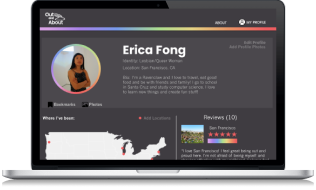
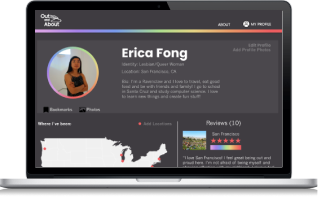
New index page

diff --git a/website.css b/website.css
@@ -6,7 +6,7 @@
     background: rgba(246, 242, 242, 0.58);
     position: absolute;
     width: 185px;
-    height: 1500px;
+    height: 1550px;
     left: 0.7%;
     top: 1.5%;   
     bottom: 0;
@@ -44,8 +44,9 @@ a{
     left: 20%;
 }
 .myname{
-    padding-left: 240px;
-    padding-top: 40px;
+    position: relative;
+    left: 20%;
+    padding-top: 3%;
     font-weight: bolder;
     font-family: 'Raleway', sans-serif;
     line-height: normal;
@@ -54,9 +55,11 @@ a{
     color: #000000;
 }
 .bio{
-    padding-left: 240px;
-    padding-top: 20px; 
-    padding-right: 16%;
+    position: relative;
+    left: 20%;
+    width: 65%;
+    padding-top: 3%;
+
     font-family: 'Roboto';
     font-style: normal;
     font-weight: normal;
@@ -162,7 +165,9 @@ a{
     display: flex;
     flex-direction: row;
     position: relative;
-    top: 40px;
+    padding-top: 4%;
+    left: 5%;
+    padding-bottom: 4%;
 }
 .link1{
     position: relative;
@@ -178,151 +183,16 @@ a{
 }
 .line{
     position: relative;
-    left: 230px;
-    top: 90px;
+    left: 17%;
     width: 75%; 
-    border: 1px solid #8A898B;
+    height: 0;
+    border: 3px solid #E8E8E8;
 }
 
 /* PROJ 1 - out and about */
-.proj1{
-    position: relative;
-    display:flex;
-    flex-direction: row;
-    top: 130px;
-    left: 240px;
-}
-.content{
-    display:flex;
-    flex-direction: column;
-}
-#title{
-    position: relative;
-    padding-top: 30px;
-    font-family: 'Raleway';
-    font-weight: 400;
-    line-height: normal;
-    font-size: 30px;
-    letter-spacing: 0.03em;
-    color: #4C494E;
-    left: 8%;
-}
 
-.flex-rectangle{
+.proj{
     position: relative;
-    top: 40px;
-    left: 10%;
-    width: 250%;
-    background: #E09898;
-}
-.flex-rectangle::before{
-    content: "";
-    display: block;
-    padding-top: 30%;
-}
-#description{
-    position: relative;
-    font-family: 'Roboto';
-    font-weight: 500;
-    line-height: 23px;
-    font-size: 100%;
-    letter-spacing: 0.04em;
-    color: #FFFFFF;
-
-    padding: 0px;
     left: 30%;
-    top: -120px;
-}
-
-.more{
-    position: relative;
-    padding-top: 20px;
-    display:flex;
-    flex-direction: row;
-    left: 30%;
-    top: -96px;
-}
-#more_text{
-    position: relative;
-    font-family: 'Roboto';
-    font-weight: 600;
-    font-size: 80%;
-    letter-spacing: 0.06em;
-    color: #592A6F;
-}
-.image1{
-    position:relative;
-    left: 18%;
-    top: 32px; 
-}
-
-/* PROJ 2 - auxplorer */
-.proj2{
-    position: relative;
-    display:flex;
-    flex-direction: row;
-    top: 190px;
-    left: 240px;
-}
-.content2{
-    display:flex;
-    flex-direction: column;
-}
-#title2{
-    position: relative;
-    top: -20px;
-    font-family: 'Raleway';
-    font-weight: 400;
-    line-height: normal;
-    font-size: 30px;
-    letter-spacing: 0.03em;
-    color: #4C494E;
-    left: 8%;
-}
-.flex-rectangle2{
-    position: relative;
-    top:20px;
-    left: 10%;
-    width: 250%;
-    background:#AE7DC5;
-}
-.flex-rectangle2::before{
-    content: "";
-    display: block;
-    padding-top: 30%;
-}
-#description2{
-    position: relative;
-    font-family: 'Roboto';
-    font-weight: 500;
-    line-height: 23px;
-    font-size: 100%;
-    letter-spacing: 0.04em;
-    color: #FFFFFF;
-
-    padding: 0px;
-    left: 30%;
-    top: -130px;
-}
-
-.more2{
-    position: relative;
-    padding-top: 20px;
-    display:flex;
-    flex-direction: row;
-    left: 30%;
-    top: -116px;
-}
-#more_text2{
-    position: relative;
-    font-family: 'Roboto';
-    font-weight: 600;
-    font-size: 80%;
-    letter-spacing: 0.06em;
-    color: #592A6F;
-}
-.image2{
-    position:relative;
-    left: 18%;
-    top: 0px; 
+    padding-top: 6%;
 }

diff --git a/index.html b/index.html
@@ -56,47 +56,16 @@
          
         <div class="line"></div>
 
-        <div class ="proj1">
-            <div class="content">
-                <div id="title">OUT AND ABOUT</div>
-                <div class="flex-rectangle"></div>
-                <div id="description"> 
-                     Helping the LGBTQ+ community <br> 
-                     find great places and safe <br>
-                     spaces.    
-                </div>
-                <div class="more">
-                    <div id="more_text"> 
-                    <a href="outandabout.html">MORE ABOUT THIS PROJECT &nbsp;
-                    </a>
-                    </div>
-                    <img id="arrow" src="/img/Arrow.png">
-                </div>
-            </div>
-            <div class="image1">
-                <img src="/img/macbook.png">
-            </div>
+        <div class ="proj 1">
+            <a href="outandabout.html"> <img src="img/OAAindex.png" width="50%" height="auto"> </a>
         </div>
 
-        <div class ="proj2">
-                <div class="content2">
-                    <div id="title2">AUXPLORER</div>
-                    <div class="flex-rectangle2"></div>
-                    <div id="description2"> 
-                        Find new music, "Auxplore" <br>
-                        different genres, artists and <br>
-                        communities.   
-                    </div>
-                    <div class="more2">
-                        <div id="more_text2"> 
-                            MORE ABOUT THIS PROJECT &nbsp;
-                            </div>
-                        <img id="arrow2" src="/img/Arrow.png">
-                    </div>
-                </div>
-                <div class="image2">
-                    <img src="/img/macbook2.png">
-                </div>
+        <div class ="proj 2">
+            <a href="outandabout.html"> <img src="img/T4Gindex.png" width="50%" height="auto"> </a>
+        </div>
+
+        <div class ="proj 3">
+            <a href="outandabout.html"> <img src="img/Auxindex.png" width="50%" height="auto"> </a>
         </div>
 
     </div>
